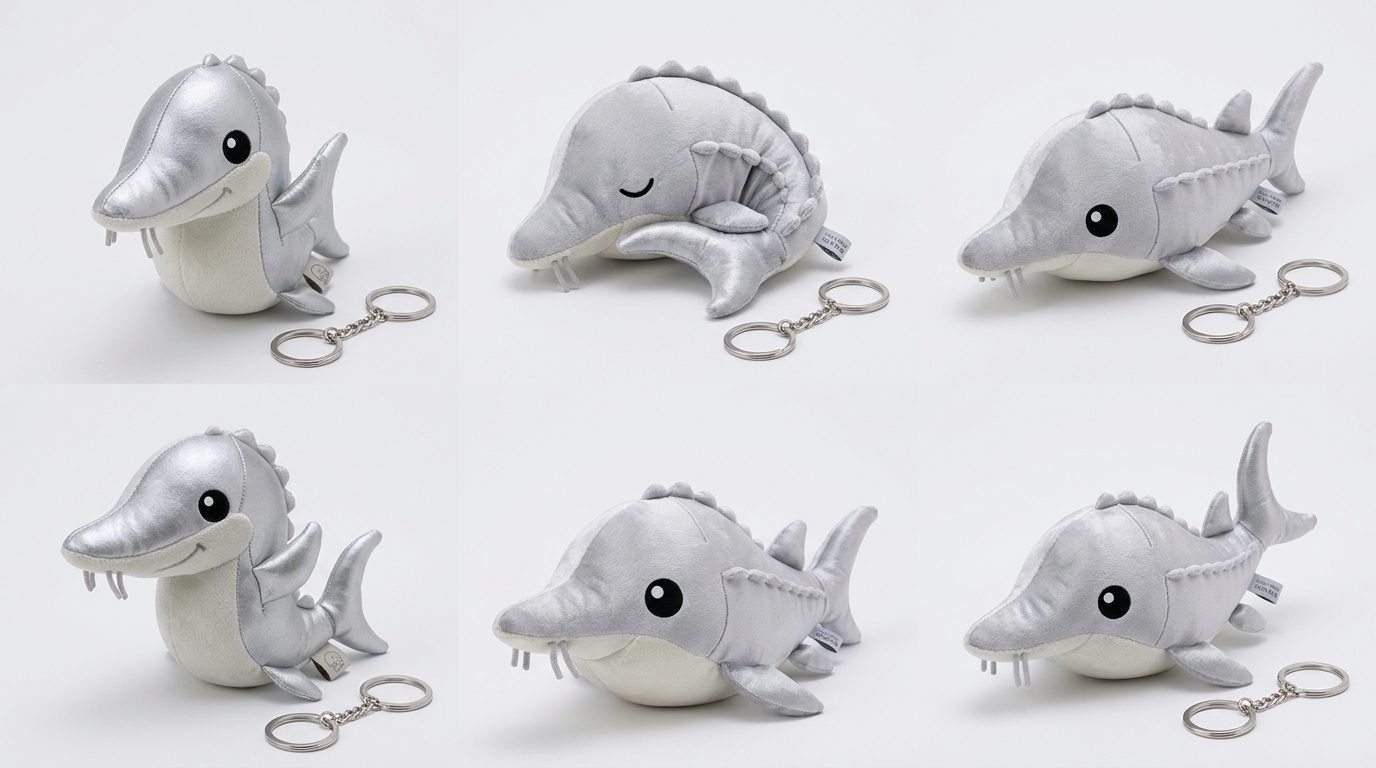
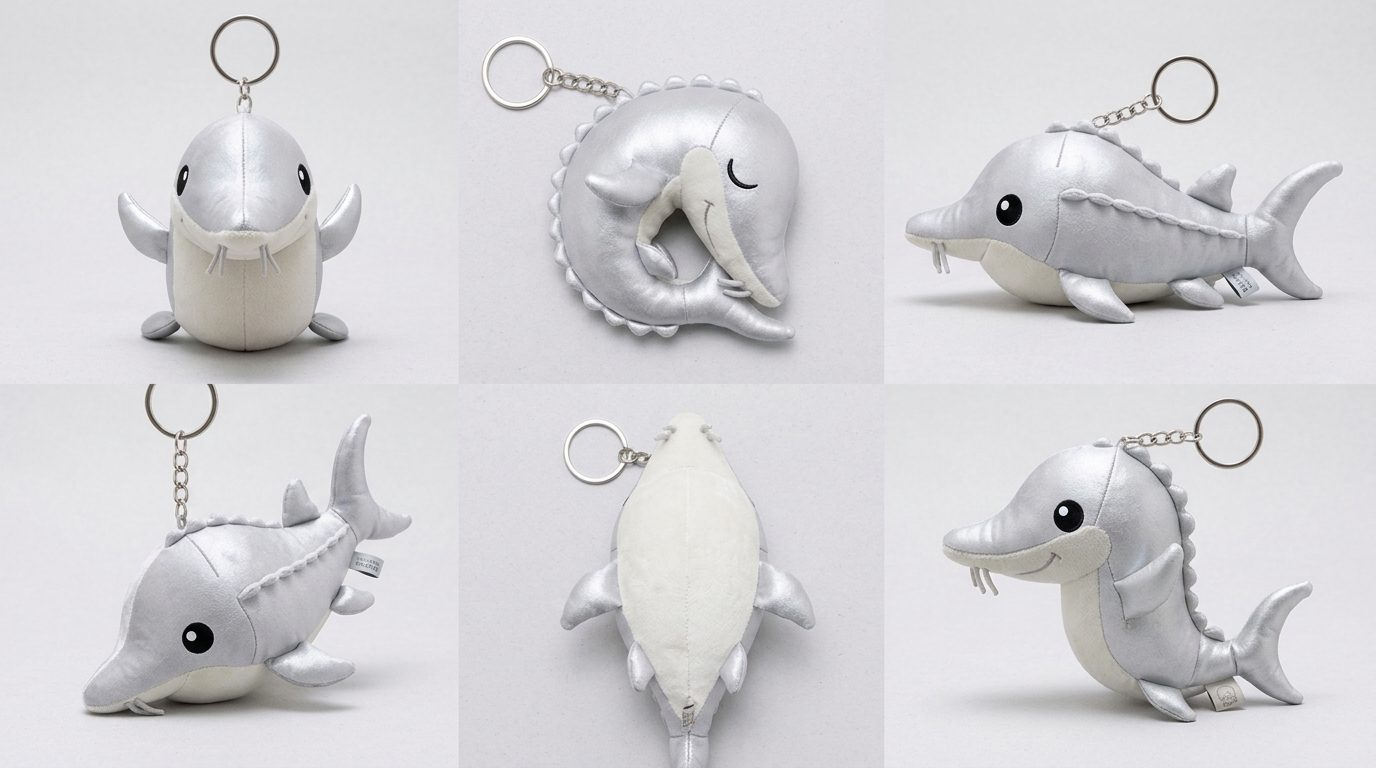
The mascot keychain as its own line

diff --git a/studio-fa519005bf/hub.js b/studio-fa519005bf/hub.js
@@ -3,14 +3,19 @@
   "use strict";
 
   /* ---------------- galleries ----------------
-     Every goods line now exists twice: the original water pieces and the Fuji
-     collection. Showing both at once would make each line unreadably long, so a
-     line that has both grows a two-way switch and shows one set at a time. Long
-     sets are further cut to data-preview rows with a "show more" underneath.
+     Most lines exist twice: the original water pieces and the Fuji collection.
+     Showing both at once would make a line unreadably long, so a line that has
+     both grows a switch and shows one view at a time. Long views are further cut
+     to data-preview rows with a "show more" underneath.
+
      Fuji assets are the ones whose id carries _fuji; nothing older does. */
   var CAPS = {};
 
   function isFuji(id) { return id.indexOf("_fuji") > -1; }
+
+  function inView(card, view) {
+    return (card.dataset.set === "fuji") === (view === "fuji");
+  }
 
   document.querySelectorAll("[data-gallery]").forEach(function (host) {
     var items = window.DATA[host.dataset.gallery] || [];
@@ -22,16 +27,21 @@
              '<figcaption data-cap="' + it[0] + '">' + it[1] + "</figcaption></figure>";
     }).join("");
 
-    /* only the long goods lines split; a short section shows everything */
-    var split = parseInt(host.dataset.preview, 10) > 0 &&
-                items.some(function (it) { return isFuji(it[0]); }) &&
-                items.some(function (it) { return !isFuji(it[0]); });
-    if (split) {
-      host.dataset.split = "1";
+    /* only the long lines split; a short section shows everything */
+    var views = [];
+    if (parseInt(host.dataset.preview, 10) > 0 &&
+        items.some(function (it) { return isFuji(it[0]); }) &&
+        items.some(function (it) { return !isFuji(it[0]); })) {
+      views = ["water", "fuji"];
+    }
+    if (views.length) {
+      host.dataset.views = views.join(",");
+      host.dataset.view = "water";
       var tabs = document.createElement("div");
       tabs.className = "setTabs";
-      tabs.innerHTML = '<button type="button" class="setTab on" data-set="water"></button>' +
-                       '<button type="button" class="setTab" data-set="fuji"></button>';
+      tabs.innerHTML = views.map(function (v) {
+        return '<button type="button" class="setTab" data-set="' + v + '"></button>';
+      }).join("");
       host.insertAdjacentElement("beforebegin", tabs);
     }
     if (parseInt(host.dataset.preview, 10)) {
@@ -47,15 +57,15 @@
   /* Decide what the grid shows: the active set, cut to the preview count while
      collapsed. Called again whenever a switch, a toggle or the language moves. */
   function sync(grid) {
-    var split = grid.dataset.split === "1",
-        fuji = grid.classList.contains("showFuji"),
+    var split = !!grid.dataset.views,
+        view = grid.dataset.view || "water",
         shut = grid.classList.contains("collapsed"),
         cap = parseInt(grid.dataset.preview, 10) || 0,
         live = grid.dataset.touched === "1",
         seen = 0, buried = 0;
 
     [].forEach.call(grid.children, function (c) {
-      if (split && (c.dataset.set === "fuji") !== fuji) { c.classList.add("off"); return; }
+      if (split && !inView(c, view)) { c.classList.add("off"); return; }
       seen++;
       var over = cap && seen > cap && shut;
       c.classList.toggle("off", over);
@@ -66,7 +76,7 @@
     var tabs = grid.previousElementSibling;
     if (tabs && tabs.classList.contains("setTabs")) {
       [].forEach.call(tabs.children, function (t) {
-        var mine = (t.dataset.set === "fuji") === fuji;
+        var mine = t.dataset.set === view;
         t.classList.toggle("on", mine);
         t.setAttribute("aria-pressed", mine ? "true" : "false");
       });
@@ -130,7 +140,12 @@
     line4B: "Woodblock, gold screens, maki-e, blue-and-white, indigo. What happens when Japanese craft draws a sturgeon the way it has always drawn carp and cranes.",
     wamonEyebrow: "PATTERNS", wamonH: "The Fujie pattern collection",
     wamonB: "Japanese patterns have always been chosen for what they mean. Seigaiha is the sea, uroko is a fish's scales, tatewaku is rising current, asanoha is growing. Eighteen patterns chosen for this fish and drawn for it: valve handwheels at the tortoise-shell nodes, arrows pointing upstream, caviar as a komon.",
-    plushEyebrow: "PROTOTYPE", plushH: "Plush",
+    plushEyebrow: "PROTOTYPE", plushH: "Plush and mascot",
+    plushB: "The same fish split in two: one you can hold, one you can hang on a bag. The first sits on a shelf; the second goes out into the city.",
+    plush1H: "01 — Plush / three sizes",
+    plush1B: "10cm, 25cm, 50cm. Fry, young fish, grown fish — the three stages are the product line.",
+    plush2H: "02 — Mascot keychain",
+    plush2B: "The cheapest single item in the range and the one that travels furthest. Six poses sold blind means it is not bought once. And the moment it is hanging on a bag, it is seen every day.",
     footNote: "The official illustration is used in accordance with Article 7 of the character manual ver 1.0 — no reshaping, recolouring, transparency, overlaid text, or added or removed elements. Chibi Fujie, the pattern collection and the Maison line are new work proposed alongside it.",
     lang: "日本語"
   };

diff --git a/studio-fa519005bf/data.js b/studio-fa519005bf/data.js
@@ -27,15 +27,6 @@ window.DATA = {
   plush: [
     ["plush_studio_front", "ぬいぐるみ 25cm", "Plush, 25cm"],
     ["plush_size_lineup", "3サイズ展開", "Three sizes"],
-    ["plush_keychain_lifestyle", "マスコット キーホルダー", "Mascot keychain"],
-    ["plush_mascot_set", "マスコット 6種", "Mascot keychains, six poses"],
-    ["plush_mascot_rail", "売り場のラック", "Shop rail"],
-    ["plush_mascot_backpack", "リュックに", "Clipped to a backpack"],
-    ["plush_mascot_hand", "手のひらサイズ", "Palm-sized"],
-    ["plush_mascot_cafe", "カフェの机で", "On a cafe table"],
-    ["plush_mascot_blindbag", "ブラインドバッグ", "Blind bags"],
-    ["plush_mascot_pair", "二つ並べて", "A pair on a handbag"],
-    ["plush_mascot_luggage", "旅の相棒", "Clipped to a suitcase"],
     ["plush_in_hands", "手のひらに 25cm", "The 25cm in the hand"],
     ["plush_detail", "仕立てのディテール", "Stitching and the embroidered eye"],
     ["plush_packaging", "パッケージ", "Retail packaging and hang tag"],
@@ -43,16 +34,28 @@ window.DATA = {
     ["plush_hug_large", "50cm を抱く", "The 50cm, hugged"],
     ["plush_shop_wall", "売り場の棚", "A shop wall of them"],
     ["plush_cushion", "クッション 60cm", "Floor cushion version, 60cm"],
-    ["plush_fuji_keychain", "富士チャーム付き", "Keychain with a felt Fuji"],
-    ["plush_fuji_mascot_set", "富士帽 マスコット 6種", "Mascot keychains in Fuji caps"],
-    ["plush_fuji_mascot_rail", "富士帽 売り場", "Shop rail, Fuji caps"],
     ["plush_fuji_cap", "富士のニット帽", "Knitted Fuji cap"],
     ["plush_fuji_lineup", "富士帽 3サイズ", "Three sizes, all in caps"],
     ["plush_fuji_cushion", "富士クッション", "Fuji cushion"],
-    ["plush_fuji_pouch", "富士 巾着", "Fuji drawstring pouch"],
     ["plush_fuji_window", "窓辺の富士", "On a windowsill, Fuji beyond"],
     ["plush_fuji_giftbox", "富士ギフトセット", "Fuji gift set"],
     ["plush_fuji_shop", "富士の売り場", "Shop wall, with the mountain"]
+  ],
+
+  mascot: [
+    ["plush_mascot_set", "マスコット 6種", "Six poses, the full set"],
+    ["plush_keychain_lifestyle", "鞄に下げて", "Hung on a bag"],
+    ["plush_mascot_rail", "売り場のラック", "Shop rail"],
+    ["plush_mascot_blindbag", "ブラインドバッグ", "Blind bags"],
+    ["plush_mascot_backpack", "リュックに", "Clipped to a backpack"],
+    ["plush_mascot_hand", "手のひらサイズ", "Palm-sized"],
+    ["plush_mascot_cafe", "カフェの机で", "On a cafe table"],
+    ["plush_mascot_pair", "二つ並べて", "A pair on a handbag"],
+    ["plush_mascot_luggage", "旅の相棒", "Clipped to a suitcase"],
+    ["plush_fuji_mascot_set", "富士帽 6種", "Six poses, all in Fuji caps"],
+    ["plush_fuji_keychain", "富士チャーム付き", "With a felt Fuji charm"],
+    ["plush_fuji_mascot_rail", "富士帽 売り場", "Shop rail, Fuji caps"],
+    ["plush_fuji_mascot_pouch", "富士 巾着", "In a Fuji pouch"]
   ],
 
   chibi: [

diff --git a/studio-fa519005bf/index.html b/studio-fa519005bf/index.html
@@ -145,8 +145,16 @@
 <section class="band dark">
   <div class="wrap">
     <p class="eyebrow" data-t="plushEyebrow">試作</p>
-    <h2 class="sectionH" data-t="plushH">ぬいぐるみ</h2>
+    <h2 class="sectionH" data-t="plushH">ぬいぐるみとマスコット</h2>
+    <p class="intro" data-t="plushB">同じ一匹を、抱けるものと、鞄に下げられるものに分けました。棚に置くのが前者、街に出ていくのが後者です。</p>
+
+    <div class="lineHead"><span class="num">01</span><h3 data-t="plush1H">ぬいぐるみ ／ 3サイズ</h3></div>
+    <p class="lineB" data-t="plush1B">10cm・25cm・50cm。稚魚・幼魚・成魚の三段階が、そのまま商品ラインになります。</p>
     <div class="grid g4" data-gallery="plush" data-preview="8"></div>
+
+    <div class="lineHead"><span class="num">02</span><h3 data-t="plush2H">マスコット キーホルダー</h3></div>
+    <p class="lineB" data-t="plush2B">いちばん安く、いちばん遠くまで行く一点。6 種を出してブラインドで売れば、買うのは一度きりではなくなります。鞄に下がった瞬間、毎日人目に触れます。</p>
+    <div class="grid g4" data-gallery="mascot" data-preview="8"></div>
   </div>
 </section>
 
